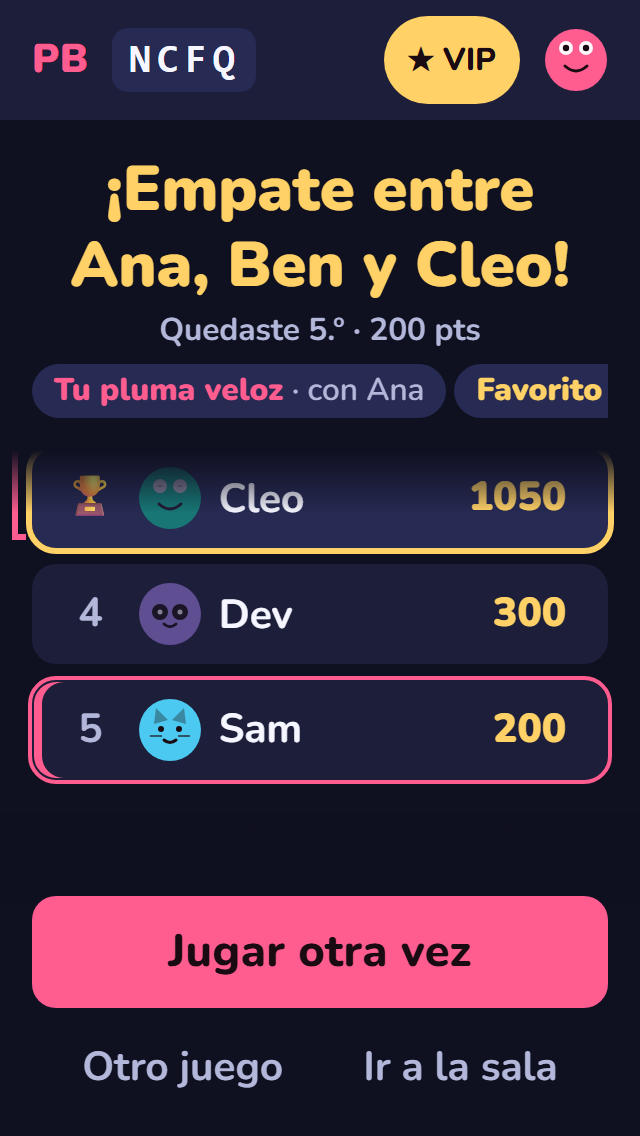
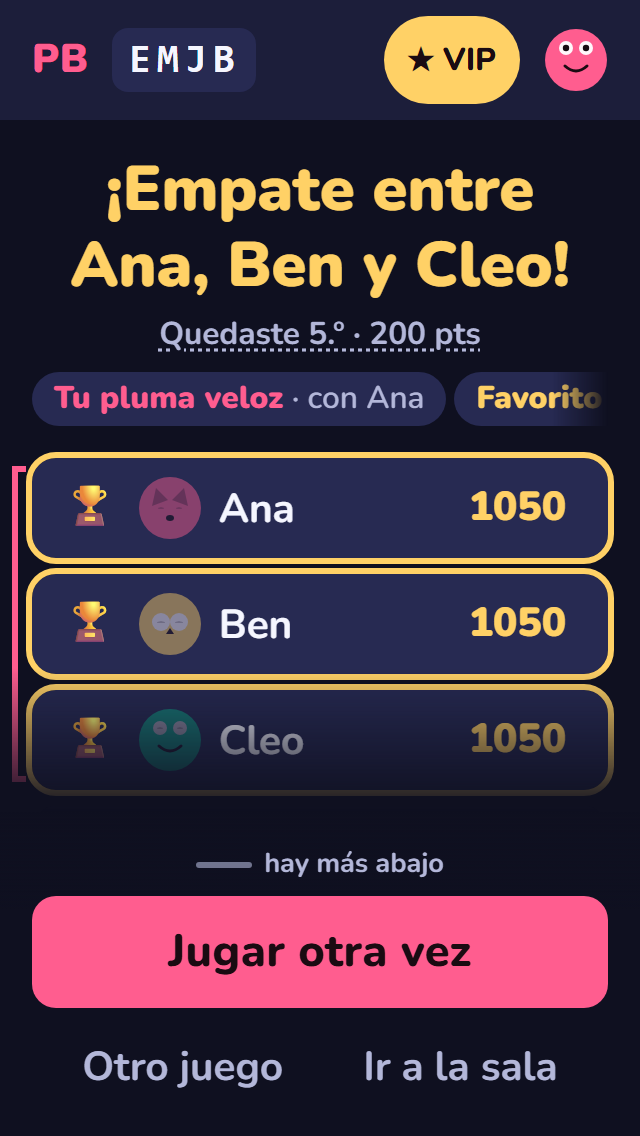
design(results): open on the winners; the chip row reads as a row that scrolls
The reviewer's two phone items on f6ab1711 (main merged in, 02e5dfd3):
- The board opens at the top, on the winners the headline names (a 5th place
  opened on their own row and two of three tied winners sat above the fold).
  'You finished 5th · 200 pts' under the headline is a tap that brings your
  row to the middle (I-456 B) — replaces the auto-scroll and its re-scroll.
- Award chips: the next chip peeks through a fade at the right edge, with
  snap; chips that fit stay centred clear of it.
Join download re-recorded on the merged tree.

diff --git a/packages/client/src/controller/Results.tsx b/packages/client/src/controller/Results.tsx
@@ -2,7 +2,7 @@
 // compact scoreboard with "me" marked; the VIP gets play again / new game / lobby, everyone else
 // waits for the VIP by name. The board shows the instant the TV's does (the phone never spoils,
 // and never hides a board the TV is already showing); the cue + buzz come from the shell.
-import { useEffect, useRef } from 'react';
+import { useRef } from 'react';
 import type { JSX } from 'react';
 import type { PlayerPublic, RoomSnapshot } from '@partybox/shared';
 import { PrimaryButton, Scoreboard, Screen, useLang } from '@partybox/game-sdk/ui';
@@ -31,31 +31,13 @@ export function Results({ controller, room, me }: ResultsProps): JSX.Element {
   // Your own row is what you look for first: bring it above the sticky footer (review-loop #15).
   const list = useRef<HTMLDivElement>(null);
   const lang = useLang();
-  useEffect(() => {
-    // I-456 B: to the middle of the list, not its nearest edge (which was half under the footer)
-    const toMe = (): void =>
-      list.current?.querySelector('[aria-current="true"]')?.scrollIntoView({ block: 'center' });
-    toMe();
-    // Again once the sticky title has settled (the place line and the award chips arrive after the
-    // first paint and shrink the body): a 5th place otherwise sat under the "more below" fade. Not
-    // if the player has touched the list meanwhile.
-    let moved = false;
-    let scroller: HTMLElement | null = list.current?.parentElement ?? null;
-    while (scroller && !/(auto|scroll)/.test(getComputedStyle(scroller).overflowY))
-      scroller = scroller.parentElement;
-    const touched = (): void => {
-      moved = true;
-    };
-    const events = ['pointerdown', 'wheel', 'touchstart', 'keydown'] as const;
-    for (const e of events) scroller?.addEventListener(e, touched, { passive: true });
-    const again = setTimeout(() => {
-      if (!moved) toMe();
-    }, 700);
-    return () => {
-      clearTimeout(again);
-      for (const e of events) scroller?.removeEventListener(e, touched);
-    };
-  }, []);
+  // The board opens at the top, on the winners the headline names (the reviewer: a 5th place
+  // opened on their own row and two of three tied winners sat above the fold); your place is the
+  // line under the headline, and a tap on it brings your row to the middle (I-456 B).
+  const toMe = (): void =>
+    list.current
+      ?.querySelector('[aria-current="true"]')
+      ?.scrollIntoView({ behavior: 'smooth', block: 'center' });
   const rows = scoreboardRows(room);
   const mine = myRow(room, me.id);
   const scoreless = useGame(room.results?.gameId, 'phone').module?.scoreless === true;
@@ -90,11 +72,11 @@ export function Results({ controller, room, me }: ResultsProps): JSX.Element {
           <span className={styles.winner} data-screen="results">
             {winnerLineFor(room, me.id, scoreless)}
           </span>
-          {/* I-456 B: your place stays in view while the board scrolls to your row */}
+          {/* I-456 B: your place stays in view over the board; a tap shows your row */}
           {mine && !over && !scoreless ? (
-            <span className={`pb-muted pb-caption ${styles.place}`}>
+            <button type="button" className={`pb-muted pb-caption ${styles.place}`} onClick={toMe}>
               {t.results.yourPlace(mine.rank, mine.score)}
-            </span>
+            </button>
           ) : null}
           {/* I-456 C: the awards as chips, under your place — never scrolled away; I-155 A/B:
               yours first, and reading as yours */}

diff --git a/packages/client/src/controller/Results.module.css b/packages/client/src/controller/Results.module.css
@@ -10,9 +10,17 @@
 /* My place, right under the winner line. */
 .place {
   display: block;
+  margin: var(--pb-space-1) auto 0;
+  padding: 2px var(--pb-space-2);
+  border: none;
+  background: transparent;
+  color: inherit;
+  font: inherit;
   text-align: center;
-  margin-top: var(--pb-space-1);
   font-weight: 700;
+  text-decoration: underline dotted;
+  text-underline-offset: 3px;
+  cursor: pointer;
 }
 
 .actions {
@@ -81,6 +89,14 @@
   overflow-x: auto;
   scrollbar-width: none;
   overscroll-behavior-x: contain;
+  scroll-snap-type: x proximity;
+  /* the next chip peeks through a fade at the right edge: a row that scrolls, not one clipped
+     mid-word (reviewer) — chips that fit are centred clear of it */
+  mask-image: linear-gradient(to right, #000 calc(100% - 28px), transparent);
+  padding-right: 20px;
+}
+.awardChips > * {
+  scroll-snap-align: start;
 }
 .awardChips::-webkit-scrollbar {
   display: none;
